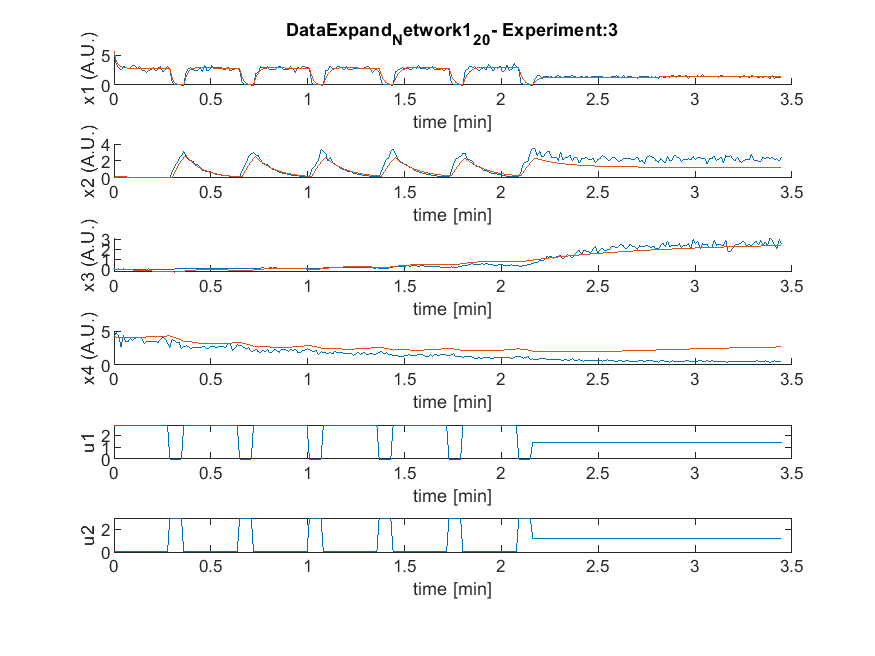
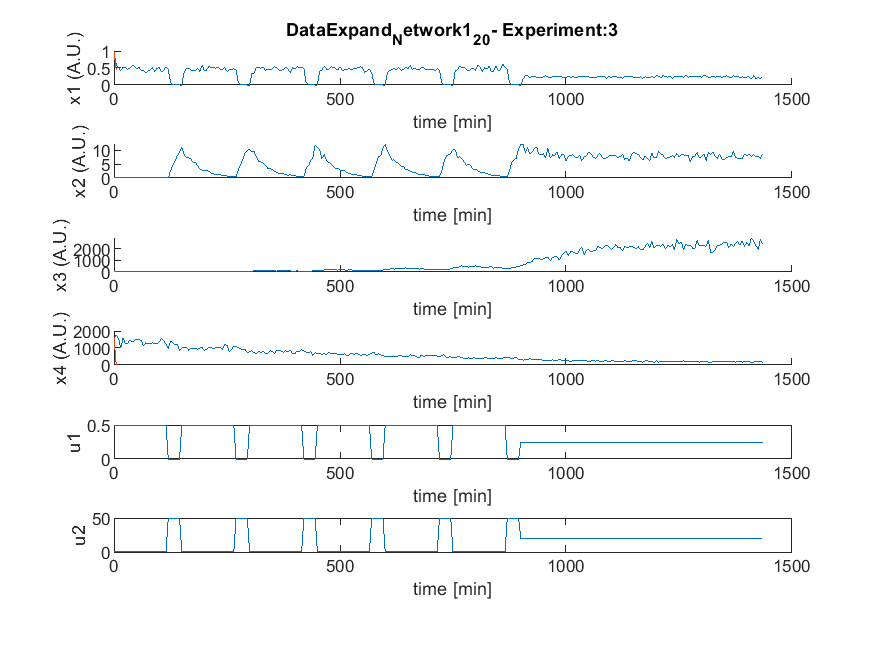
Test simulations, no good outcome on fit

diff --git a/AMIGOScripts/SBL_scaled_data.m b/AMIGOScripts/SBL_scaled_data.m
@@ -2,13 +2,23 @@ function [scaled_exps] = SBL_scaled_data(exps,idx_exp)
     scaled_exps = exps;
     
     for iexp=idx_exp
-        scaled_exps.exps.t_s{1,iexp} = scale(exps.exps.t_s{1,iexp});
-        scaled_exps.exps.t_con{1,iexp} = scale(exps.exps.t_con{1,iexp});
-        scaled_exps.exps.u{1,iexp} = scale(exps.exps.u{1,iexp});
-        scaled_exps.exps.exp_data{1,iexp} = scale(exps.exps.exp_data{1,iexp}')';
-        scaled_exps.exps.error_data{1,iexp} = scale(exps.exps.error_data{1,iexp}')';
-        scaled_exps.exps.exp_y0{1,iexp} = scaled_exps.exps.exp_data{1,iexp}(1,:);
-        scaled_exps.exps.t_f{1,iexp} = scaled_exps.exps.t_s{1,iexp}(end);
+%% Zoltan normalisation
+%         scaled_exps.exps.t_s{1,iexp} = scale(exps.exps.t_s{1,iexp});
+%         scaled_exps.exps.t_con{1,iexp} = scale(exps.exps.t_con{1,iexp});
+%         scaled_exps.exps.u{1,iexp} = scale(exps.exps.u{1,iexp});
+%         scaled_exps.exps.exp_data{1,iexp} = scale(exps.exps.exp_data{1,iexp}')';
+%         scaled_exps.exps.error_data{1,iexp} = scale(exps.exps.error_data{1,iexp}')';
+%         scaled_exps.exps.exp_y0{1,iexp} = scaled_exps.exps.exp_data{1,iexp}(1,:);
+%         scaled_exps.exps.t_f{1,iexp} = scaled_exps.exps.t_s{1,iexp}(end);
+
+%%      Unnormalised data
+%         scaled_exps.exps.t_s{1,iexp} = scale(exps.exps.t_s{1,iexp});
+%         scaled_exps.exps.t_con{1,iexp} = scale(exps.exps.t_con{1,iexp});
+%         scaled_exps.exps.u{1,iexp} = scale(exps.exps.u{1,iexp});
+%         scaled_exps.exps.exp_data{1,iexp} = scale(exps.exps.exp_data{1,iexp}')';
+%         scaled_exps.exps.error_data{1,iexp} = scale(exps.exps.error_data{1,iexp}')';
+%         scaled_exps.exps.exp_y0{1,iexp} = scaled_exps.exps.exp_data{1,iexp}(1,:);
+%         scaled_exps.exps.t_f{1,iexp} = scaled_exps.exps.t_s{1,iexp}(end);
     end
     
     

diff --git a/AMIGOScripts/SimModels.m b/AMIGOScripts/SimModels.m
@@ -16,11 +16,11 @@ function [sim_res] = SimModels(models, experimental_data_scaled,model_idx)
     sim_res.inputs.model = ExtractModelToFit(models(model_idx));
 
     %% Plot generation
-    if ~isfolder(strjoin([".\AMIGOScripts\Results\TestSim_",string(model_id)],''))
-        mkdir(strjoin([".\AMIGOScripts\Results\TestSim_",string(model_id)],''))
+    if ~isfolder(strjoin([".\AMIGOScripts\Results\TestSim_Unnormalised_100p",string(model_id)],''))
+        mkdir(strjoin([".\AMIGOScripts\Results\TestSim_Unnormalised_100p",string(model_id)],''))
     end
     
     sim_res.best_sim = PlotFunction_sim(sim_res,model_id,models,model_idx,experimental_data_scaled);
-    save(strjoin([".\AMIGOScripts\Results\TestSim_",string(model_id),"\sim_result.mat"],""), "sim_res")
+    save(strjoin([".\AMIGOScripts\Results\TestSim_Unnormalised_100p",string(model_id),"\sim_result.mat"],""), "sim_res")
 
 end

diff --git a/AMIGOScripts/SBL_Amigo_TestSimulation.m b/AMIGOScripts/SBL_Amigo_TestSimulation.m
@@ -15,6 +15,7 @@ for model_idx=1:length(models)
     disp(strcat(['Model being tested: ',int2str(model_idx)]))
     exps_indexes = union(models(model_idx).model.exp_training_idx,models(model_idx).model.exp_test_idx);
     experimental_data = SBLyaml_to_AMIGO_exps(network_name,exps_indexes);
-    experimental_data_scaled = SBL_scaled_data(experimental_data,exps_indexes);
-    sim_results{model_idx} = SimModels(models, experimental_data_scaled,model_idx);
+    %experimental_data_scaled = SBL_scaled_data(experimental_data,exps_indexes);
+    %sim_results{model_idx} = SimModels(models, experimental_data_scaled,model_idx);
+    sim_results{model_idx} = SimModels(models, experimental_data,model_idx);
 end

diff --git a/AMIGOScripts/FitModels.m b/AMIGOScripts/FitModels.m
@@ -27,11 +27,7 @@ function [fit_res] = FitModels(models, experimental_data, model_idx)
     [k,~] = size(fit_res.global_theta_guess);
     tmpmat = fit_res.global_theta_guess;
     results = cell(1,k);
-    
-%     fit_res.inputs.nlpsol.eSS.maxeval = 200000;
-%     fit_res.inputs.nlpsol.eSS.maxtime = 5000;
-    fit_res.inputs.nlpsol.eSS.maxeval = 200;
-    fit_res.inputs.nlpsol.eSS.maxtime = 50;
+
      
  
 %     if isfile(strjoin([".\Results\PE_Results_",fit_res.system, "_Model", fit_dat.model, "_GenIter", fit_dat.iter,"_", date, "_", flag, ".mat"],""))

diff --git a/SBL_Amigo_ClosingTheLoop.m b/SBL_Amigo_ClosingTheLoop.m
@@ -15,7 +15,7 @@ models = SBLyaml_to_AMIGO_models(network_name);
 
 %% Run Model inference on each of the identified structures
 fit_results = {};
-for model_idx=1%:2%length(models)
+for model_idx=3%:2%length(models)
     disp(strcat(['Model being fitted: ',int2str(model_idx)]))
     exps_indexes = union(models(model_idx).model.exp_training_idx,models(model_idx).model.exp_test_idx);
     experimental_data = SBLyaml_to_AMIGO_exps(network_name,exps_indexes);

diff --git a/AMIGOScripts/setGuessAndBounds.m b/AMIGOScripts/setGuessAndBounds.m
@@ -5,7 +5,7 @@ function [boundperIter_return] = setGuessAndBounds(params,model_id)
     nModel = compName{end-1,:};     % string: model identifier
     
     % patch to account for negative parameter values
-    params_matrix = [10.*params;0.1.*params];
+    params_matrix = [1000.*params;0.001.*params];
     for c=1:size(params_matrix,2)
         if params_matrix(1,c)<0
             params_matrix_flipped(:,c) = flip(params_matrix(:,c));

diff --git a/AMIGOScripts/PlotFunction_sim.m b/AMIGOScripts/PlotFunction_sim.m
@@ -2,6 +2,7 @@ function [sim_res_bestSim] = PlotFunction_sim(sim_res,model_id,models,model_idx,
 
     inputs = {};
     inputs.model = sim_res.inputs.model; 
+    inputs.model.par = sim_res.inputs.model.par.*10; 
     inputs.exps.n_exp = sim_res.exps.n_exp;
     
     results_folder = strcat(model_id,convertStringsToChars('_simulation_'),datestr(now,'yyyy-mm-dd'));
